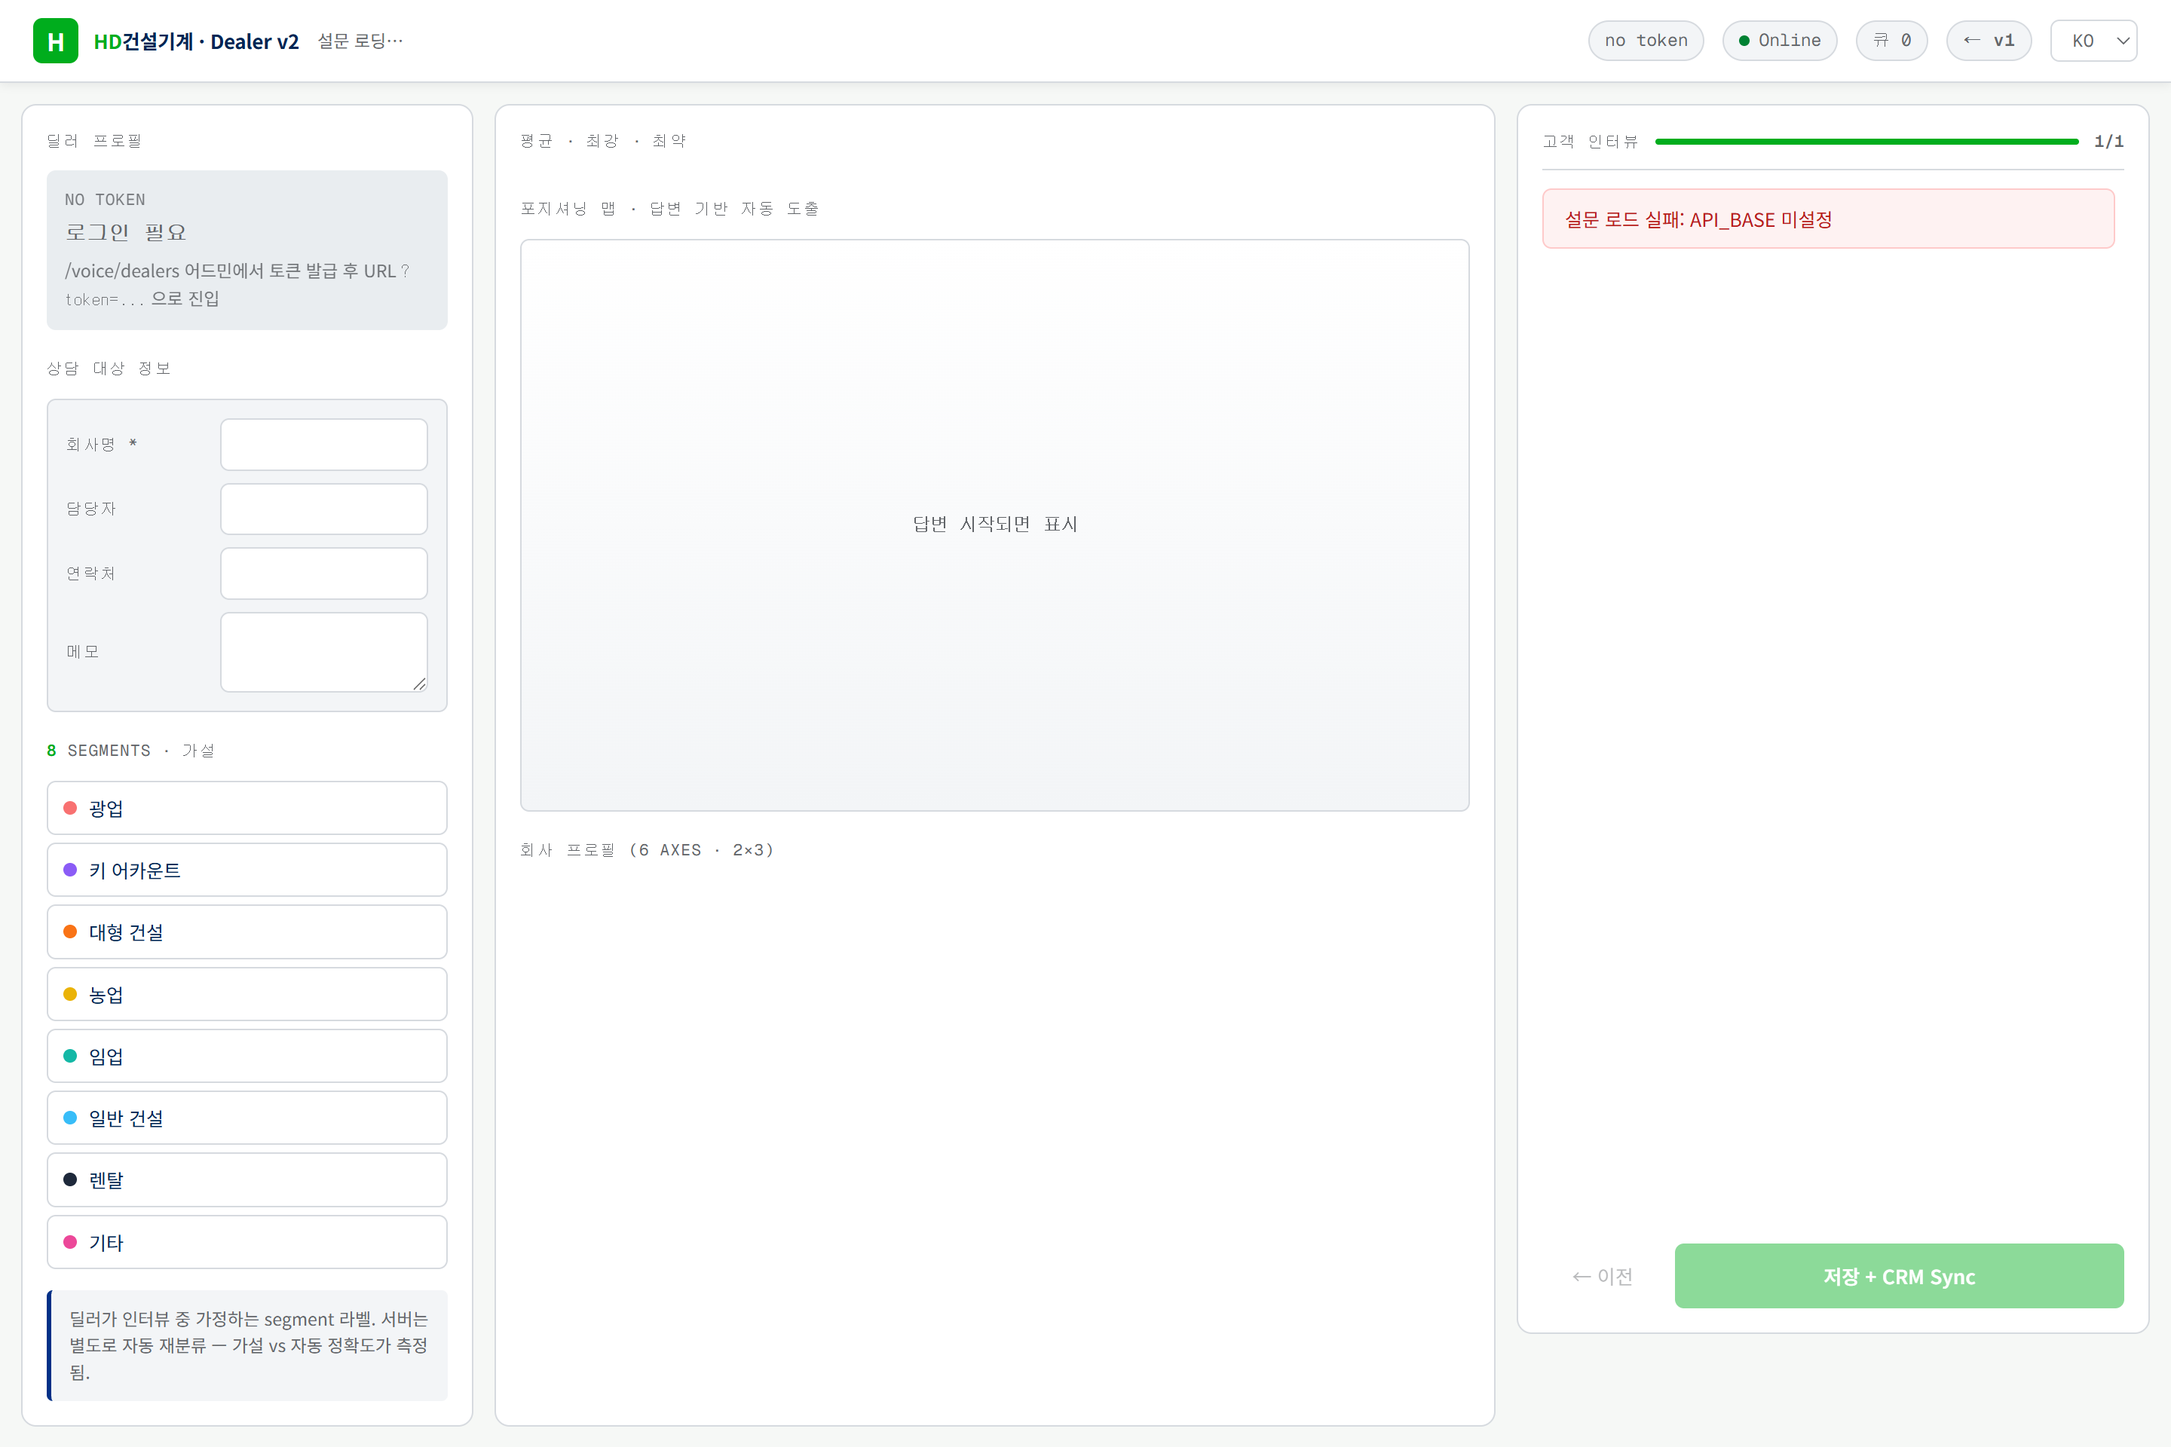
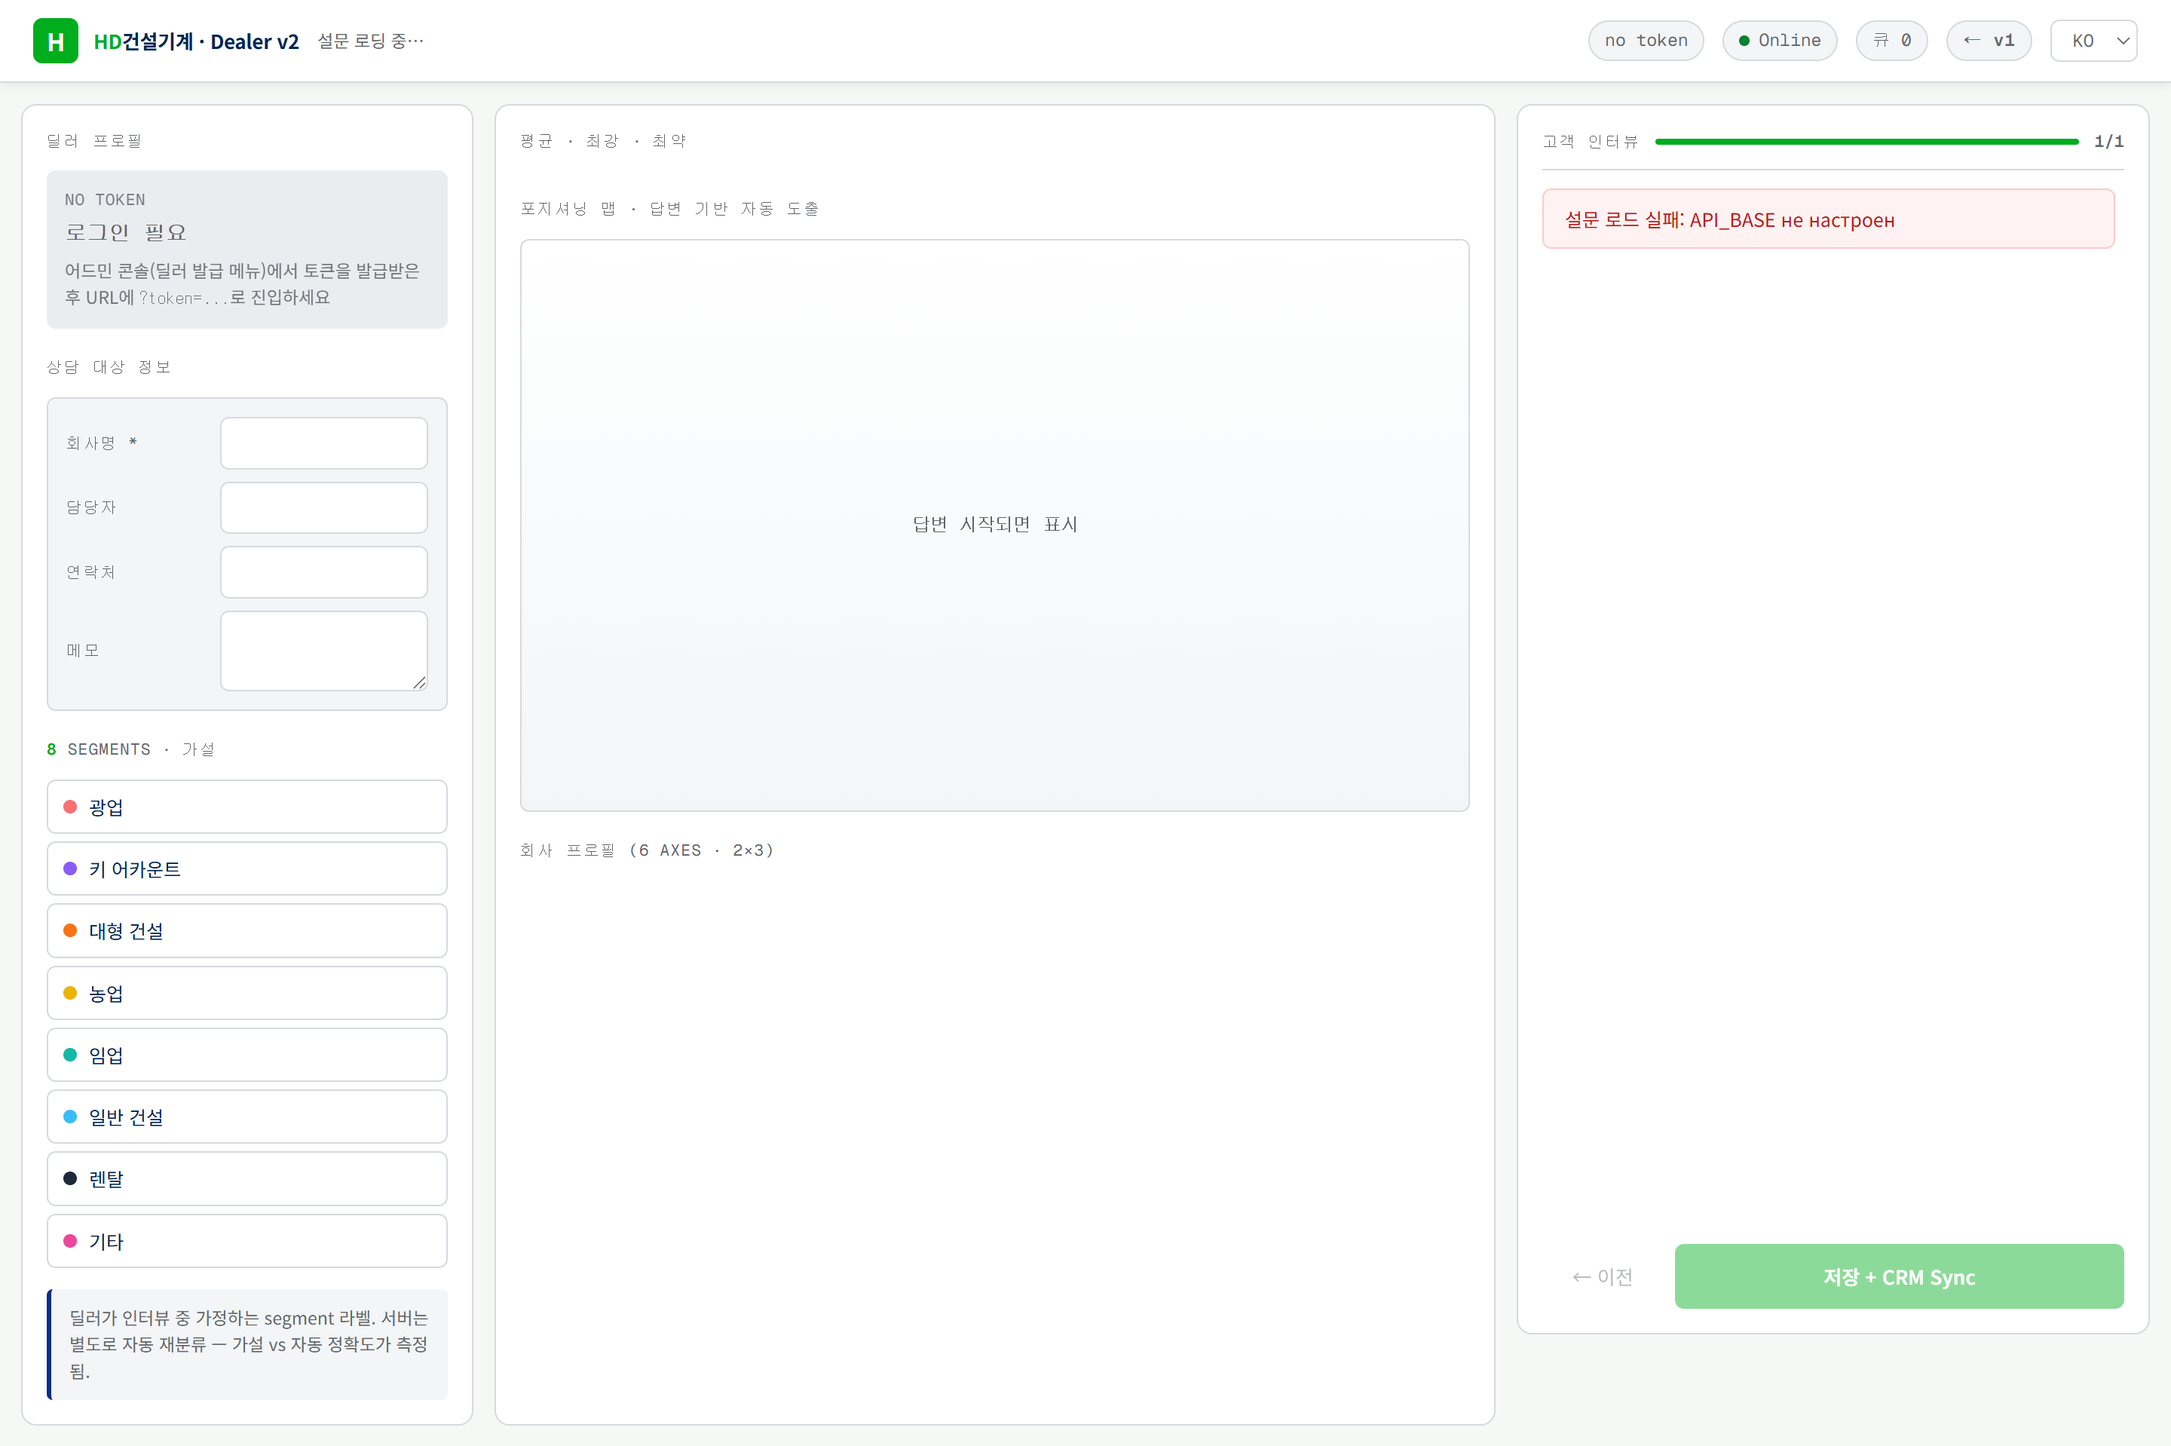
fix(dealer-v2): i18n 누락된 한국어 잔여 문자열 RU/EN/KO 사전화
이전: 'no_token / no_token_hint / prev / next / submit / reset / surveyCrumb /
queuePill / loading_error / radar_axes_short / api_base_missing' 같은 UI 문자열이
HTML에 하드코딩 한국어로 박혀 있어, langSel을 RU/EN으로 바꿔도 그대로 한국어 노출.

수정:
- I18N 사전에 11개 키 추가 (ru/en/ko 3종 동기)
- applyI18N에 btnPrev/btnNext/btnSubmit/btnReset/surveyCrumb 라벨 갱신 추가
- renderRadar·renderQA·renderDealerCard·postOne·loadSurvey의 인라인 한국어 → t() 호출
- 초기 HTML 디폴트(JS 로드 전 첫 paint)는 RU로 통일 (state.lang 기본값)
- v1/v2 헤더 verSwitch 버튼 title 속성도 RU로

검증: localhost 정적 서버 + puppeteer로 RU/EN/KO 세 언어 모두 본문·버튼·상태 카드까지
일관 번역 확인. tutorial/_build/verify_v2_lang.js로 회귀 검증 가능.

diff --git a/V_Voice/dealer/v2/index.html b/V_Voice/dealer/v2/index.html
@@ -183,12 +183,12 @@ input,textarea,select{font:inherit;color:inherit;}
 
 <header class="topbar">
   <span class="brand"><span class="brand-mark">H</span><span class="brand-name"><b>HD</b>건설기계 · Dealer v2</span></span>
-  <span class="crumb" id="surveyCrumb">설문 로딩…</span>
+  <span class="crumb" id="surveyCrumb">Загрузка опроса…</span>
   <span class="spacer"></span>
   <span class="pill" id="tokenStatus">no token</span>
   <span class="pill" id="netPill"><span class="net-dot" id="netDot"></span><span id="netLabel">Online</span></span>
-  <span class="pill" id="queuePill">큐 0</span>
-  <a id="verSwitch" href="/dealer/" title="Dealer v1 (현행) 보기"
+  <span class="pill" id="queuePill">Очередь 0</span>
+  <a id="verSwitch" href="/dealer/" title="Открыть Dealer v1 (текущая)"
      class="pill"
      style="text-decoration:none;color:inherit;font-weight:600;letter-spacing:0.04em;">
     &larr; v1
@@ -208,7 +208,7 @@ input,textarea,select{font:inherit;color:inherit;}
     </div>
 
     <div class="section-block">
-      <div class="panel-head" id="lbl_target_head">상담 대상</div>
+      <div class="panel-head" id="lbl_target_head">Информация о клиенте</div>
       <div class="target">
         <label id="lbl_company">Company *</label><input id="inp_company" type="text" autocomplete="off"/>
         <label id="lbl_contact">Contact</label><input id="inp_contact" type="text" autocomplete="off"/>
@@ -218,7 +218,7 @@ input,textarea,select{font:inherit;color:inherit;}
     </div>
 
     <div class="section-block">
-      <div class="panel-head"><b>8</b> Segments · <span id="lbl_hypothesis">가설</span></div>
+      <div class="panel-head"><b>8</b> Segments · <span id="lbl_hypothesis">гипотеза</span></div>
       <div class="seg-list" id="segList"></div>
       <div class="hint" id="lbl_hypothesis_help"></div>
     </div>
@@ -229,19 +229,19 @@ input,textarea,select{font:inherit;color:inherit;}
   <!-- CENTER — Summary · Radar · 회사 프로필 2x3 -->
   <section class="panel">
     <div class="section-block">
-      <div class="panel-head" id="lbl_summary_head">평균 · 최강 · 최약</div>
+      <div class="panel-head" id="lbl_summary_head">Среднее · Сильная · Слабая</div>
       <div class="summary" id="summary"></div>
     </div>
 
     <div class="section-block">
-      <div class="panel-head" id="lbl_radar_head">포지셔닝 맵 · 답변 기반 자동 도출</div>
+      <div class="panel-head" id="lbl_radar_head">Карта позиционирования · автовывод по ответам</div>
       <div class="radar-wrap" id="radarWrap">
-        <span class="radar-empty">설문 응답이 시작되면 표시됩니다</span>
+        <span class="radar-empty">Появится после ответов</span>
       </div>
     </div>
 
     <div class="section-block">
-      <div class="panel-head" id="lbl_profile_head">회사 프로필 (6 axes · 2×3)</div>
+      <div class="panel-head" id="lbl_profile_head">Профиль компании (6 осей)</div>
       <div class="profile-grid" id="profileGrid"></div>
     </div>
   </section>
@@ -249,7 +249,7 @@ input,textarea,select{font:inherit;color:inherit;}
   <!-- RIGHT — 마케팅 + NPS + 동의 · 페이지네이션 · 슬라이드 -->
   <aside class="panel right-fixed">
     <div class="page-nav">
-      <span class="panel-head" style="margin:0;flex-shrink:0;"><span id="lbl_interview">고객 인터뷰</span></span>
+      <span class="panel-head" style="margin:0;flex-shrink:0;"><span id="lbl_interview">Интервью клиента</span></span>
       <div class="page-nav-dots" id="pageDots"></div>
       <span class="page-counter" id="pageCounter">0/0</span>
     </div>
@@ -257,10 +257,10 @@ input,textarea,select{font:inherit;color:inherit;}
       <div class="pager-track" id="pagerTrack"></div>
     </div>
     <div class="page-controls">
-      <button class="btn ghost" id="btnPrev" disabled>← 이전</button>
-      <button class="btn" id="btnNext">다음 →</button>
-      <button class="btn primary" id="btnSubmit" disabled style="display:none;">저장 + CRM Sync</button>
-      <button class="btn ghost" id="btnReset" style="display:none;">새 상담</button>
+      <button class="btn ghost" id="btnPrev" disabled>← Назад</button>
+      <button class="btn" id="btnNext">Далее →</button>
+      <button class="btn primary" id="btnSubmit" disabled style="display:none;">Сохранить + CRM Sync</button>
+      <button class="btn ghost" id="btnReset" style="display:none;">Новое интервью</button>
     </div>
     <div id="toastSlot"></div>
   </aside>
@@ -292,7 +292,13 @@ const I18N = {
        submit:'Сохранить + CRM Sync', reset:'Новое интервью',
        ok_sent:'Сохранено + отправлено', ok_offline:'Сохранено локально (offline)',
        loading:'Загрузка опроса…', radar_empty:'Появится после ответов', survey_id:'Опрос',
-       avg:'Среднее', strong:'Сильнейшая ось', weak:'Слабейшая' },
+       avg:'Среднее', strong:'Сильнейшая ось', weak:'Слабейшая',
+       prev:'← Назад', next:'Далее →',
+       no_token:'Требуется вход',
+       no_token_hint:'Выпустите токен в админ-консоли (раздел дилеров) и перейдите по URL с параметром <code>?token=...</code>',
+       radar_axes_short:'Нужно ≥ 3 осей (сейчас {n})',
+       load_error_prefix:'Ошибка загрузки опроса',
+       api_base_missing:'API_BASE не настроен' },
   en:{ dealer_profile:'Dealer Profile',
        hypothesis:'hypothesis', hypothesis_help:'Dealer toggles hypothesized segment. Server re-classifies independently — hypothesis accuracy measured.',
        summary_head:'Avg · Strong · Weak', profile_head:'Company profile (6 axes)',
@@ -302,7 +308,13 @@ const I18N = {
        submit:'Save + CRM Sync', reset:'New interview',
        ok_sent:'Saved + sent', ok_offline:'Saved locally (offline)',
        loading:'Loading survey…', radar_empty:'Shows up after answers', survey_id:'Survey',
-       avg:'Average', strong:'Strongest axis', weak:'Weakest' },
+       avg:'Average', strong:'Strongest axis', weak:'Weakest',
+       prev:'← Prev', next:'Next →',
+       no_token:'Login required',
+       no_token_hint:'Issue a token in the admin console (dealers section), then open the URL with <code>?token=...</code>',
+       radar_axes_short:'Need ≥ 3 axes (now {n})',
+       load_error_prefix:'Failed to load survey',
+       api_base_missing:'API_BASE is not configured' },
   ko:{ dealer_profile:'딜러 프로필',
        hypothesis:'가설', hypothesis_help:'딜러가 인터뷰 중 가정하는 segment 라벨. 서버는 별도로 자동 재분류 — 가설 vs 자동 정확도가 측정됨.',
        summary_head:'평균 · 최강 · 최약', profile_head:'회사 프로필 (6 axes · 2×3)',
@@ -312,7 +324,13 @@ const I18N = {
        submit:'저장 + CRM Sync', reset:'새 상담',
        ok_sent:'저장 + 송출 완료', ok_offline:'오프라인 저장됨',
        loading:'설문 로딩 중…', radar_empty:'답변 시작되면 표시', survey_id:'설문',
-       avg:'평균', strong:'최강 축', weak:'최약 축' },
+       avg:'평균', strong:'최강 축', weak:'최약 축',
+       prev:'← 이전', next:'다음 →',
+       no_token:'로그인 필요',
+       no_token_hint:'어드민 콘솔(딜러 발급 메뉴)에서 토큰을 발급받은 후 URL에 <code>?token=...</code>로 진입하세요',
+       radar_axes_short:'레이더에 필요한 축 ≥ 3 (현재 {n})',
+       load_error_prefix:'설문 로드 실패',
+       api_base_missing:'API_BASE 미설정' },
 };
 
 /* ============================================================================ */
@@ -362,7 +380,7 @@ async function refreshQueue(){state.queueCount=await queueCountFn(); const el=do
 /* API */
 const API_BASE = (window.HD_API_BASE || '').replace(/\/$/,'');
 async function postOne(rec){
-  if (!API_BASE) throw new Error('API_BASE 미설정');
+  if (!API_BASE) throw new Error(t('api_base_missing'));
   const res = await fetch(`${API_BASE}/responses-receive`, {
     method:'POST',
     headers:{
@@ -386,7 +404,7 @@ async function drainQueue(){
 }
 
 async function loadSurvey(){
-  if (!API_BASE) { state.loadError = 'API_BASE 미설정'; renderQA(); return; }
+  if (!API_BASE) { state.loadError = t('api_base_missing'); renderQA(); return; }
   try {
     const r = await fetch(`${API_BASE}/surveys-get?audience=dealer`);
     if (!r.ok) throw new Error(`${r.status}: ${await r.text()}`);
@@ -458,7 +476,7 @@ function renderRadar(){
   const wrap = document.getElementById('radarWrap');
   const N = state.axes.length;
   if (N < 3) {
-    wrap.innerHTML = `<span class="radar-empty">${state.axes.length ? `radar 필요 axes ≥ 3 (현재 ${N})` : t('radar_empty')}</span>`;
+    wrap.innerHTML = `<span class="radar-empty">${state.axes.length ? t('radar_axes_short').replace('{n}', N) : t('radar_empty')}</span>`;
     document.getElementById('summary').innerHTML = '';
     return;
   }
@@ -537,7 +555,7 @@ function renderQA(){
   if (track) track.innerHTML = '';
 
   if (state.loadError) {
-    track.innerHTML = `<div class="pager-page"><div class="toast err">설문 로드 실패: ${state.loadError}</div></div>`;
+    track.innerHTML = `<div class="pager-page"><div class="toast err">${t('load_error_prefix')}: ${state.loadError}</div></div>`;
     renderPageNav(1);
     return;
   }
@@ -619,8 +637,8 @@ function renderDealerCard(){
   if (!state.dealerId) {
     card.className = 'dealer-card empty';
     card.innerHTML = `<div class="dc-row"><span>No token</span></div>
-      <div class="dc-id">로그인 필요</div>
-      <div class="dc-meta">/voice/dealers 어드민에서 토큰 발급 후 URL <code>?token=...</code> 으로 진입</div>`;
+      <div class="dc-id">${t('no_token')}</div>
+      <div class="dc-meta">${t('no_token_hint')}</div>`;
     return;
   }
   // JWT exp 추출 (옵션)
@@ -850,6 +868,10 @@ function applyI18N(){
   set('lbl_target_head','target_head'); set('lbl_company','company'); set('lbl_contact','contact');
   set('lbl_phone','phone'); set('lbl_notes','notes'); set('lbl_radar_head','radar_head');
   set('lbl_interview','interview');
+  set('btnPrev','prev'); set('btnNext','next');
+  set('btnSubmit','submit'); set('btnReset','reset');
+  const crumb = document.getElementById('surveyCrumb');
+  if (crumb) crumb.textContent = state.survey ? `${t('survey_id')}: ${state.survey.id}` : t('loading');
   document.getElementById('netLabel').textContent = state.online ? t('net_on') : t('net_off');
   document.getElementById('tokenStatus').textContent = state.dealerId ? `dealer:${state.dealerId.slice(0,12)}` : 'no token';
   refreshQueue();

diff --git a/tutorial/_build/verify_v2_lang.js b/tutorial/_build/verify_v2_lang.js
@@ -1,0 +1,43 @@
+// Boots local static server + drives puppeteer to confirm all three langs render.
+const http = require('http');
+const fs   = require('fs');
+const path = require('path');
+const puppeteer = require('puppeteer');
+
+const ROOT = path.resolve(__dirname, '..', '..');
+const PORT = 8765;
+
+const srv = http.createServer((req, res) => {
+  let p = path.join(ROOT, decodeURIComponent(req.url.split('?')[0]));
+  if (p.endsWith('/') || p.endsWith('\\')) p = path.join(p, 'index.html');
+  fs.readFile(p, (err, buf) => {
+    if (err) { res.statusCode = 404; return res.end(); }
+    res.end(buf);
+  });
+});
+
+srv.listen(PORT, async () => {
+  const b = await puppeteer.launch({ headless: 'new' });
+  try {
+    for (const lang of ['ru', 'en', 'ko']) {
+      const p = await b.newPage();
+      await p.setViewport({ width: 1440, height: 900 });
+      await p.goto(`http://localhost:${PORT}/V_Voice/dealer/v2/index.html`, { waitUntil: 'networkidle0' });
+      await p.select('#langSel', lang);
+      await new Promise(r => setTimeout(r, 600));
+      const text = await p.evaluate(() => {
+        const ids = ['surveyCrumb','queuePill','lbl_target_head','lbl_hypothesis','lbl_summary_head','lbl_radar_head','lbl_profile_head','lbl_interview','btnPrev','btnNext','btnSubmit','btnReset'];
+        const o = {};
+        for (const id of ids) { const el = document.getElementById(id); if (el) o[id] = el.textContent.trim(); }
+        o.dealerCard = document.getElementById('dealerCard').textContent.replace(/\s+/g, ' ').trim().slice(0, 200);
+        return o;
+      });
+      console.log(`\n=== ${lang.toUpperCase()} ===`);
+      for (const [k, v] of Object.entries(text)) console.log(`  ${k.padEnd(20)} ${v}`);
+      await p.close();
+    }
+  } finally {
+    await b.close();
+    srv.close();
+  }
+});

diff --git a/V_Voice/dealer/index.html b/V_Voice/dealer/index.html
@@ -148,7 +148,7 @@
       <span class="badge" id="queueBadge" title="송출 대기">큐 0</span>
       <button id="histBtn" class="hist-btn" type="button" aria-label="history">📋 <span id="histBtnLabel">이력</span></button>
       <button id="helpBtn" class="help-btn" type="button" aria-label="help" title="?">?</button>
-      <a id="verSwitch" href="/dealer/v2/" title="Dealer v2 (3-col radar 시안) 보기"
+      <a id="verSwitch" href="/dealer/v2/" title="Открыть Dealer v2 (3-col radar)"
          style="display:inline-flex;align-items:center;padding:4px 10px;
                 border:1px solid rgba(255,255,255,0.25);border-radius:999px;
                 background:rgba(255,255,255,0.08);color:#fff;
